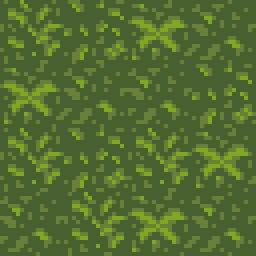
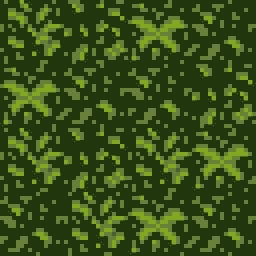
grass and map
asdfsd

diff --git a/SwagSword/SwagSword/Scripts/Managers/MapMaker.cs b/SwagSword/SwagSword/Scripts/Managers/MapMaker.cs
@@ -58,7 +58,7 @@ namespace SwagSword
                 noiseOffset = noiseGen.NoiseToTexture();
                 pathMask = MergeTextures(ShiftPathHorizontal(BasePathHorizontal(), noiseOffset), ShiftPathVertical(BasePathVertical(), noiseOffset));
                 pathMask = MergeTextures(pathMask, NoiseyCircle());
-                noiseOffset = noiseGen.AdjustConstrast(noiseOffset, 4);
+                noiseOffset = noiseGen.AdjustConstrast(noiseOffset, 2);
                 noiseOffset = noiseGen.AddGradient(noiseOffset, Color.LightGray, Color.White);
                 noiseOffset = noiseGen.BlendImages(mainMan.DrawMan.SandyTexture, mainMan.DrawMan.GrassTexture, noiseOffset);
             }
